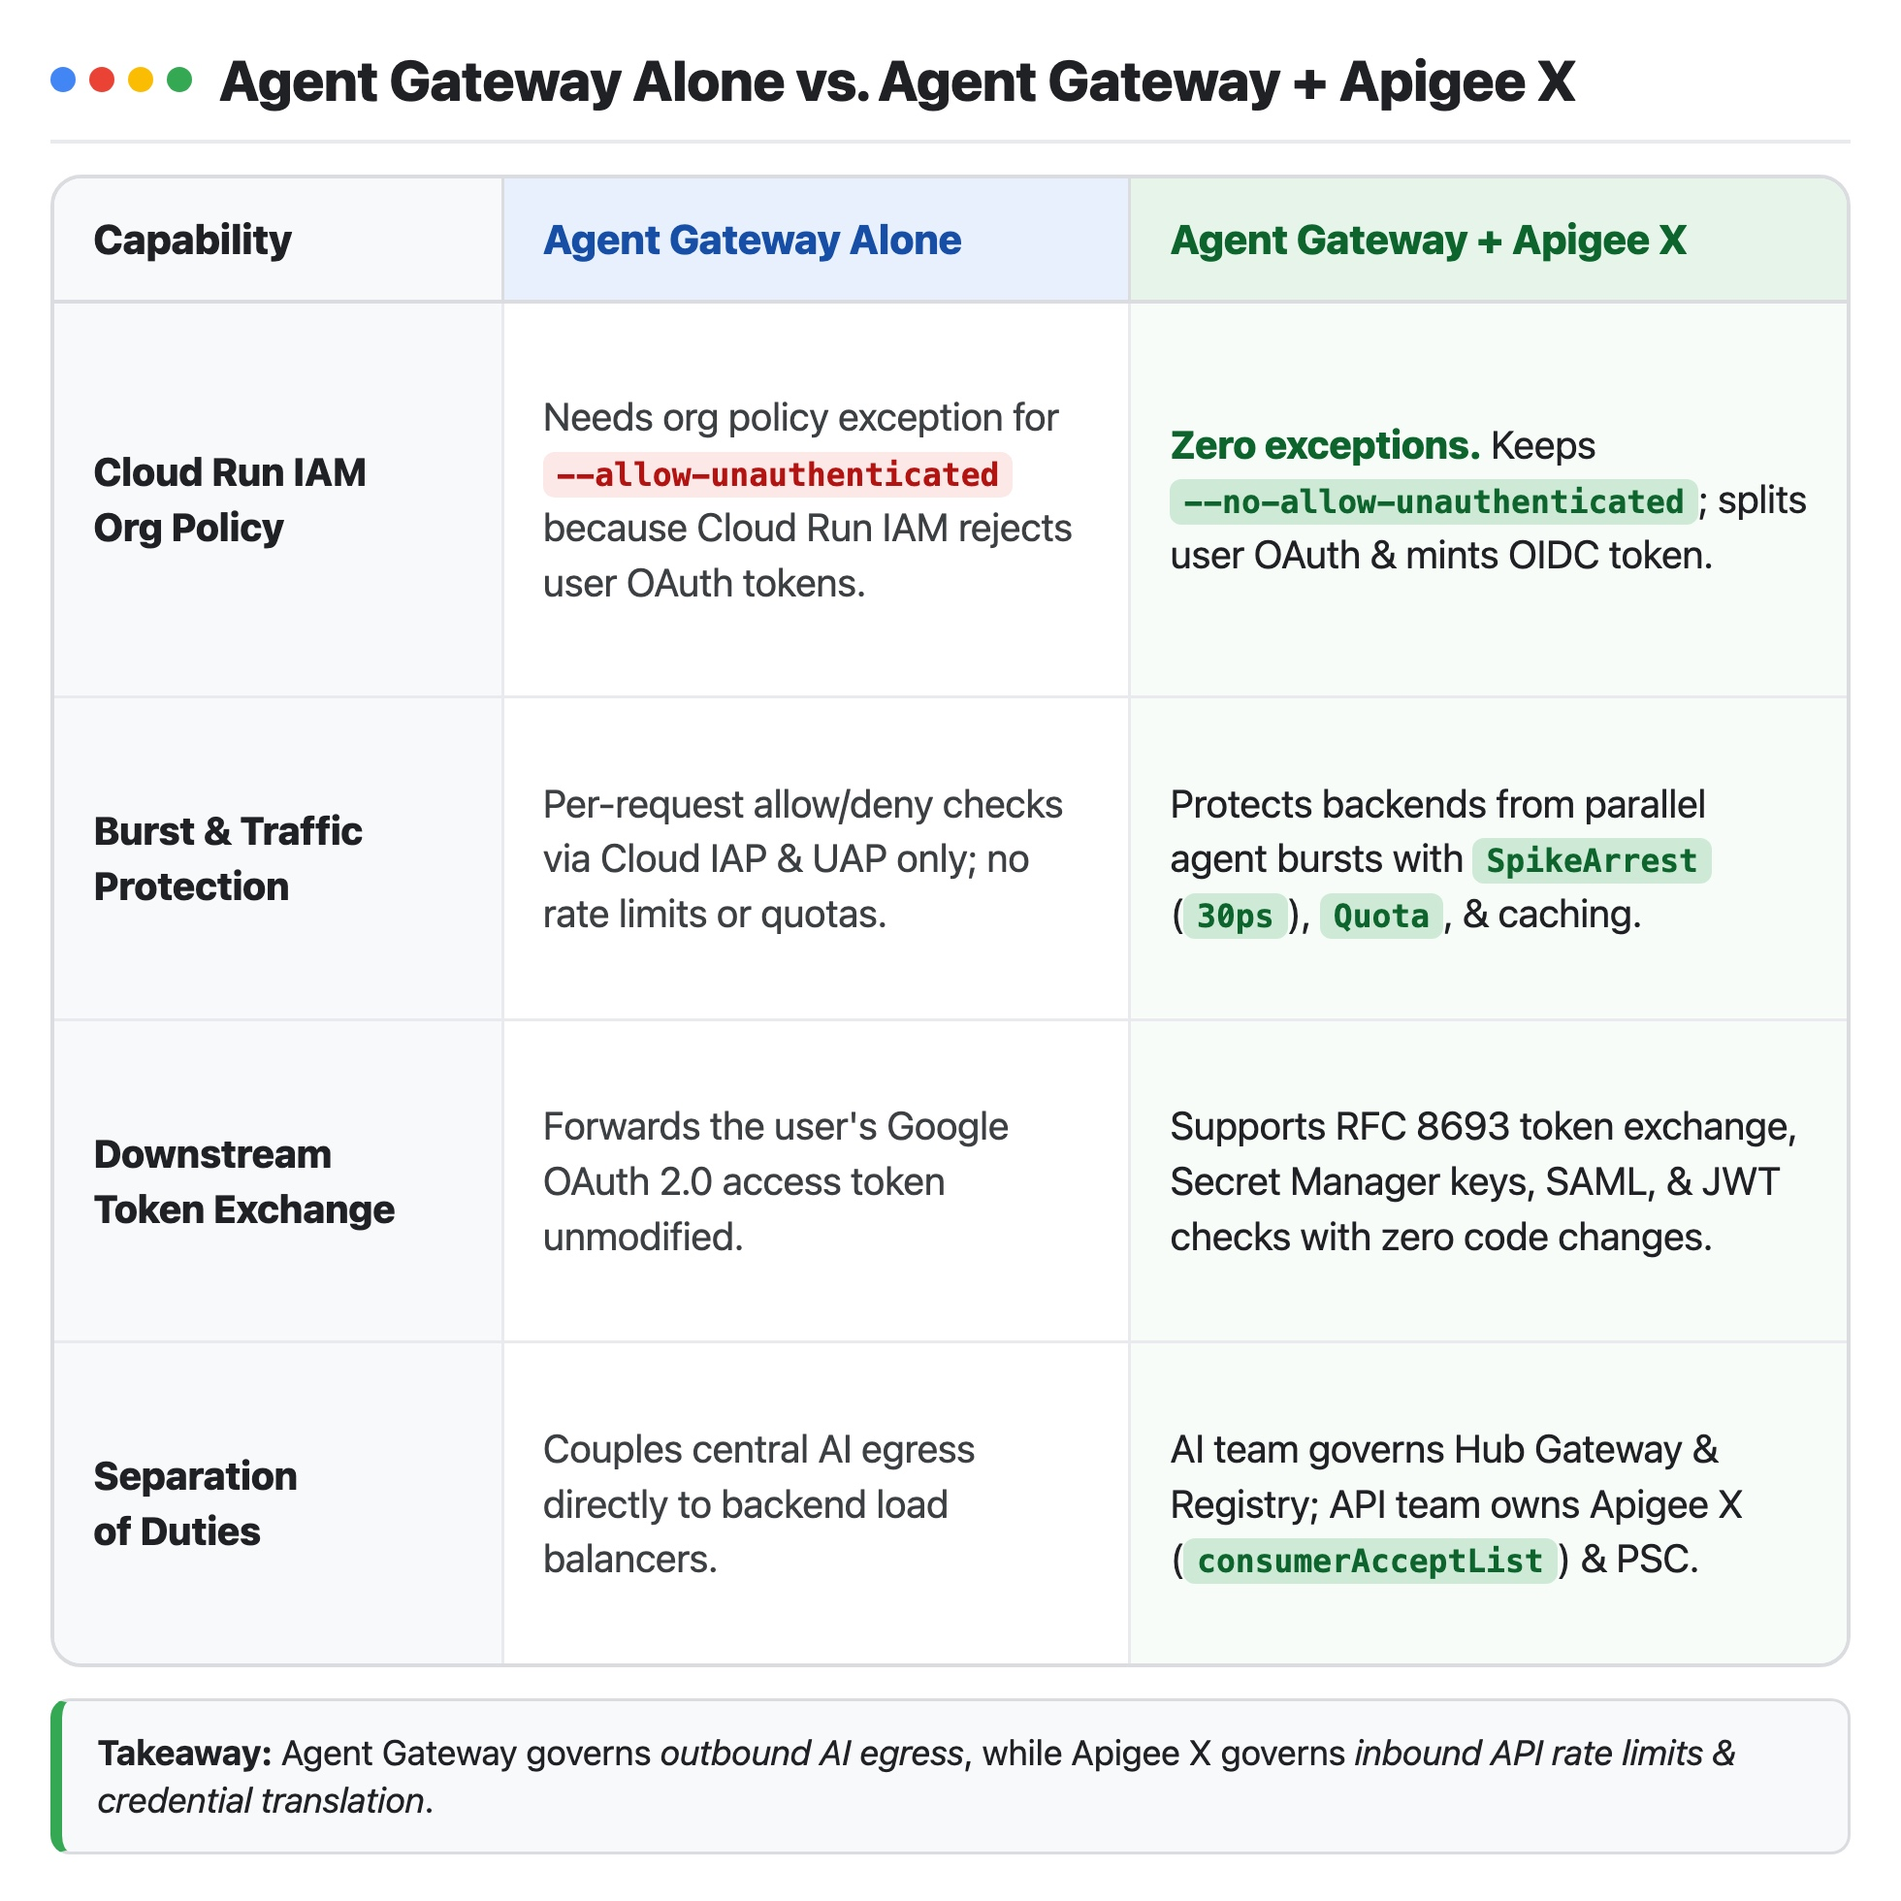
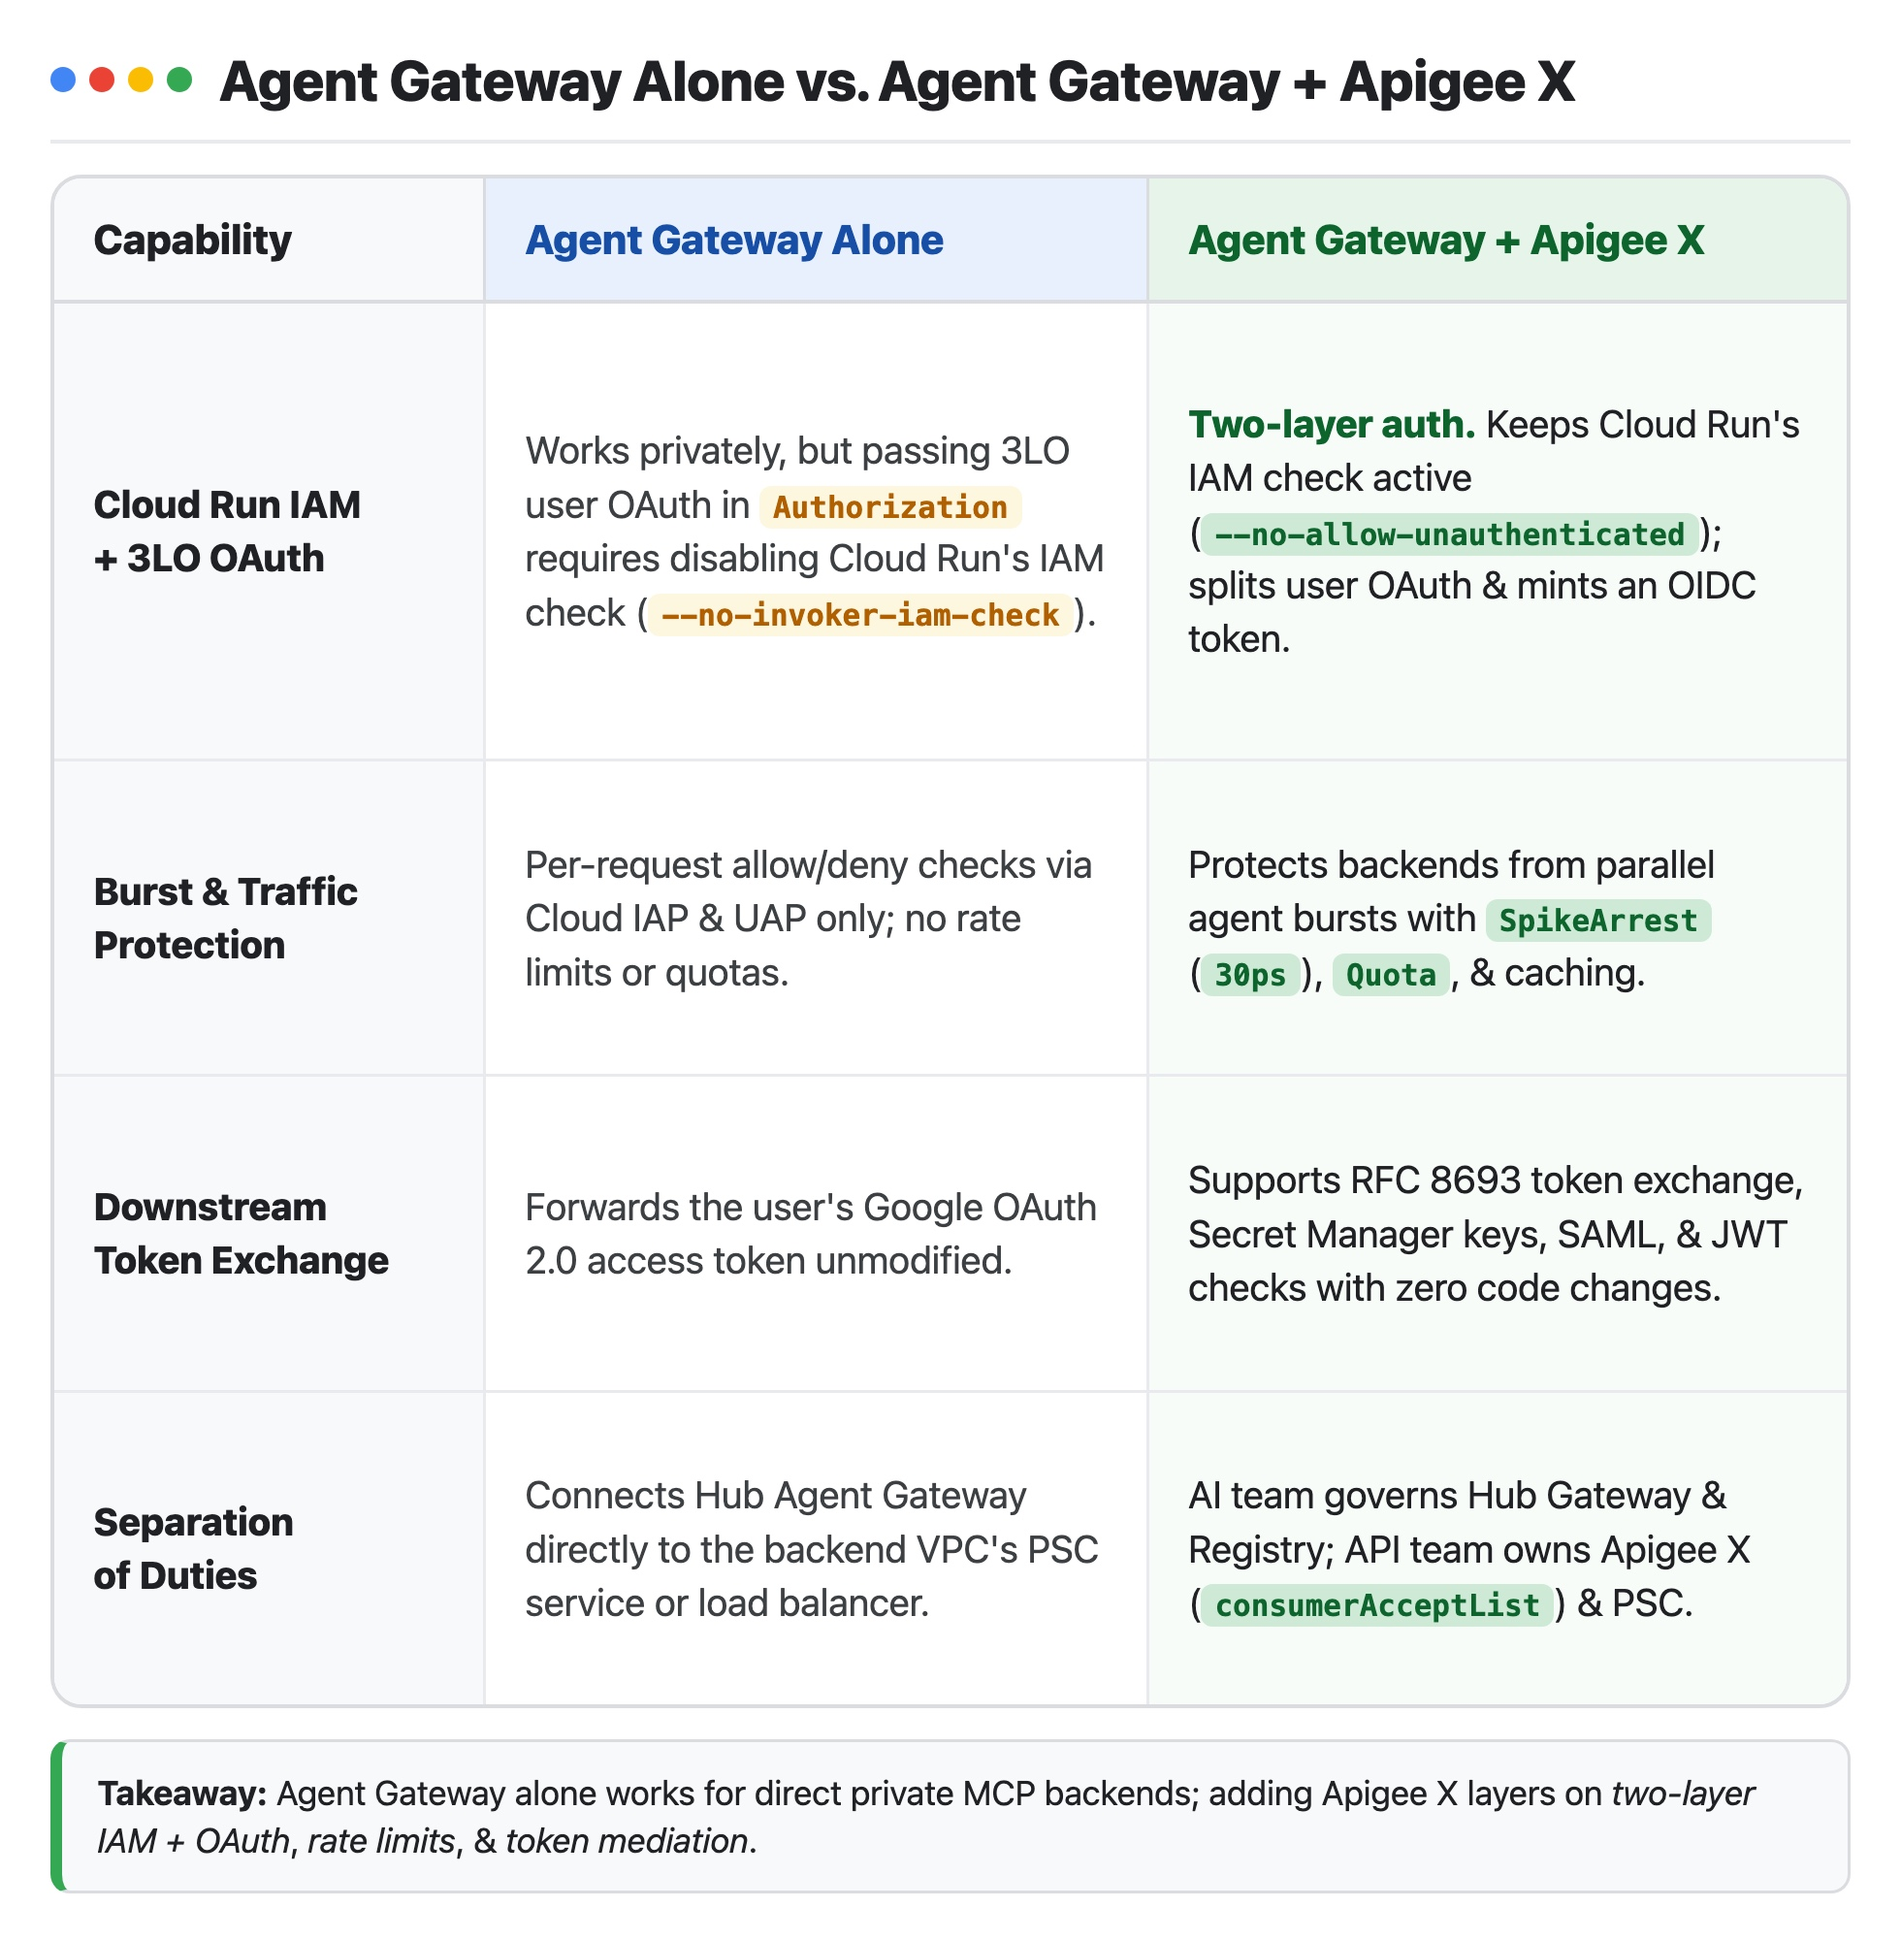
Refine Cloud Run IAM + 3LO OAuth comparison in Figure 4 and README

diff --git a/README.md b/README.md
@@ -12,7 +12,7 @@ Complete reference implementation and automation suite for connecting an **inter
 
 ### Key Enterprise Capabilities
 - **Zero Public Internet & Zero VPC Peering:** Public `*.run.app` access returns `HTTP 404`. Traffic traverses Hub Agent Gateway -> Hub Internal HTTPS ALB (`10.10.1.30:443`) -> Northbound PSC NEG -> Apigee X -> Southbound `EndpointAttachment` -> Producer Internal HTTPS ALB (`10.30.1.10:443`) -> Cloud Run.
-- **Dual-Credential Token Translation (Zero Org Policy Exceptions):** Apigee X preserves the signed-in employee's 3LO Google OAuth 2.0 token in `X-MCP-User-Authorization` and mints a Cloud Run OIDC ID token (`<GoogleIDToken>`) as `sa-apigee-invoker`, keeping `constraints/iam.allowedPolicyMemberDomains` (`--no-allow-unauthenticated`) strictly enforced.
+- **Two-Layer Auth via Dual-Credential Translation:** Apigee X preserves the signed-in employee's 3LO Google OAuth 2.0 access token in `X-MCP-User-Authorization` and mints a Google-signed Cloud Run OIDC ID token (`<GoogleIDToken>`) as `sa-apigee-invoker`, keeping Cloud Run's platform IAM invoker check (`--no-allow-unauthenticated`) active alongside end-user OAuth validation.
 - **Governed Discovery & Traffic Protection:** Hub Agent Registry + IAM v3 Universal Access Policies (`destination.is_registered == true`) govern outbound AI egress while Apigee X enforces `SpikeArrest` (`30ps`) rate limiting.
 
 ![Two-Project Layout and Evaluation Cost Profile](./images/08_table_project_layout_cost.jpg)
